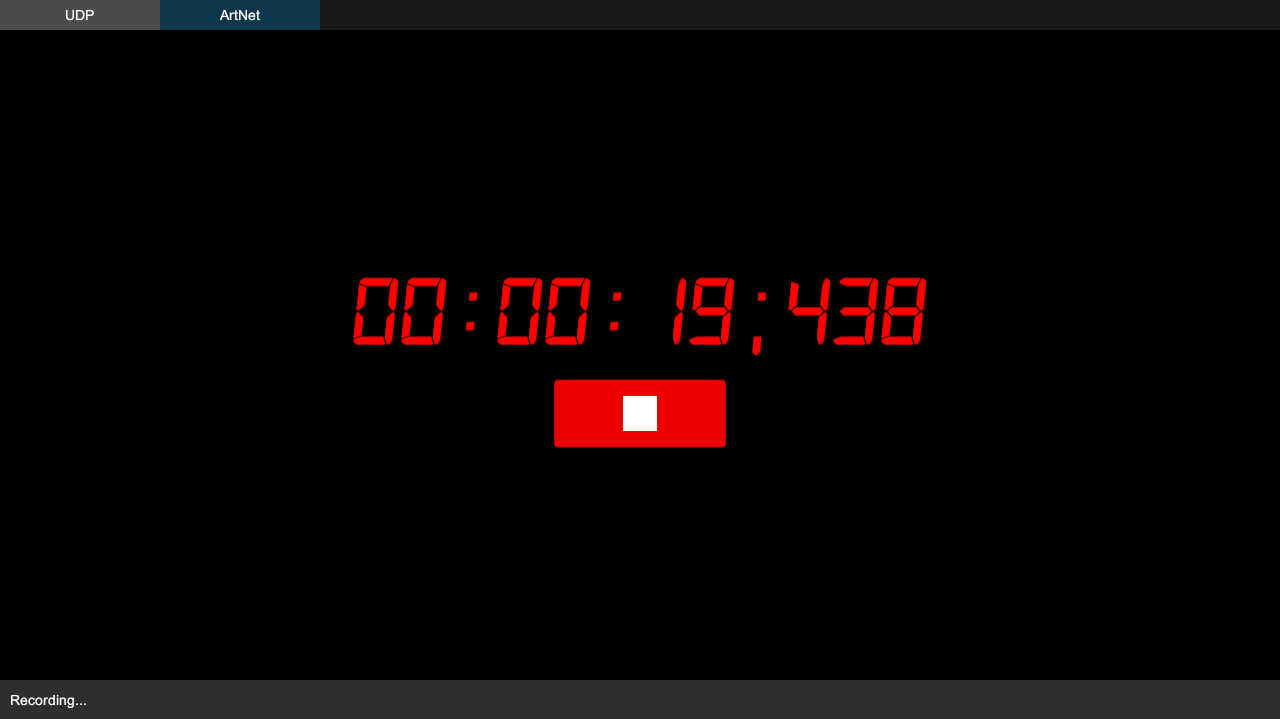
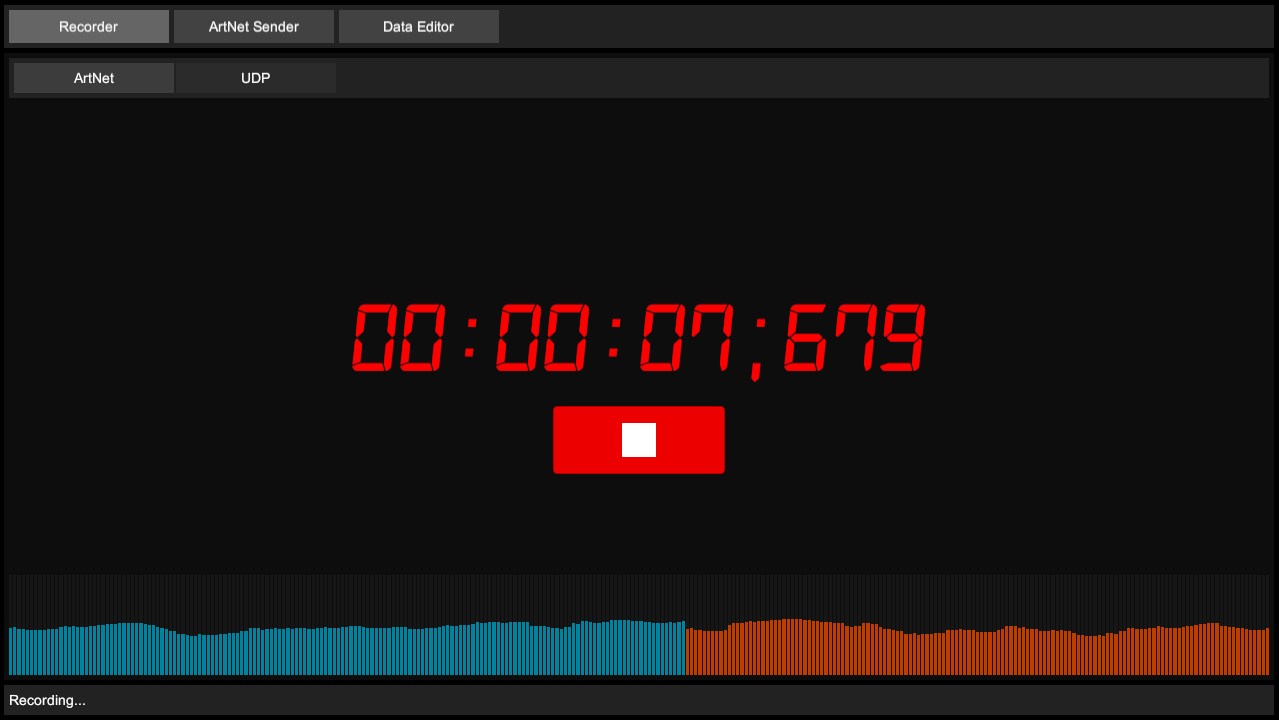
update readme

Changed region(s): [[0.0, 0.0, 1.0, 0.153], [0.0, 0.8567, 1.0, 1.0], [0.2744, 0.3672, 0.7318, 0.6732]]

diff --git a/README.md b/README.md
@@ -10,3 +10,10 @@ The data will be saved in StreamingAssets folder.
 # ArtNet record data structure
 
 ![structure](https://github.com/kodai100/Unity_ArtNetRecorder/blob/master/img/structure.png)
+
+# ArtNet Re-Sender
+
+![sender](https://github.com/kodai100/Unity_ArtNetRecorder/blob/master/img/sender.png)
+
+This application can play and send recorded data as ArtNet signal.
+The playing data will be shown as red dotted texture (right hand side of window, bottom is universe 0).
